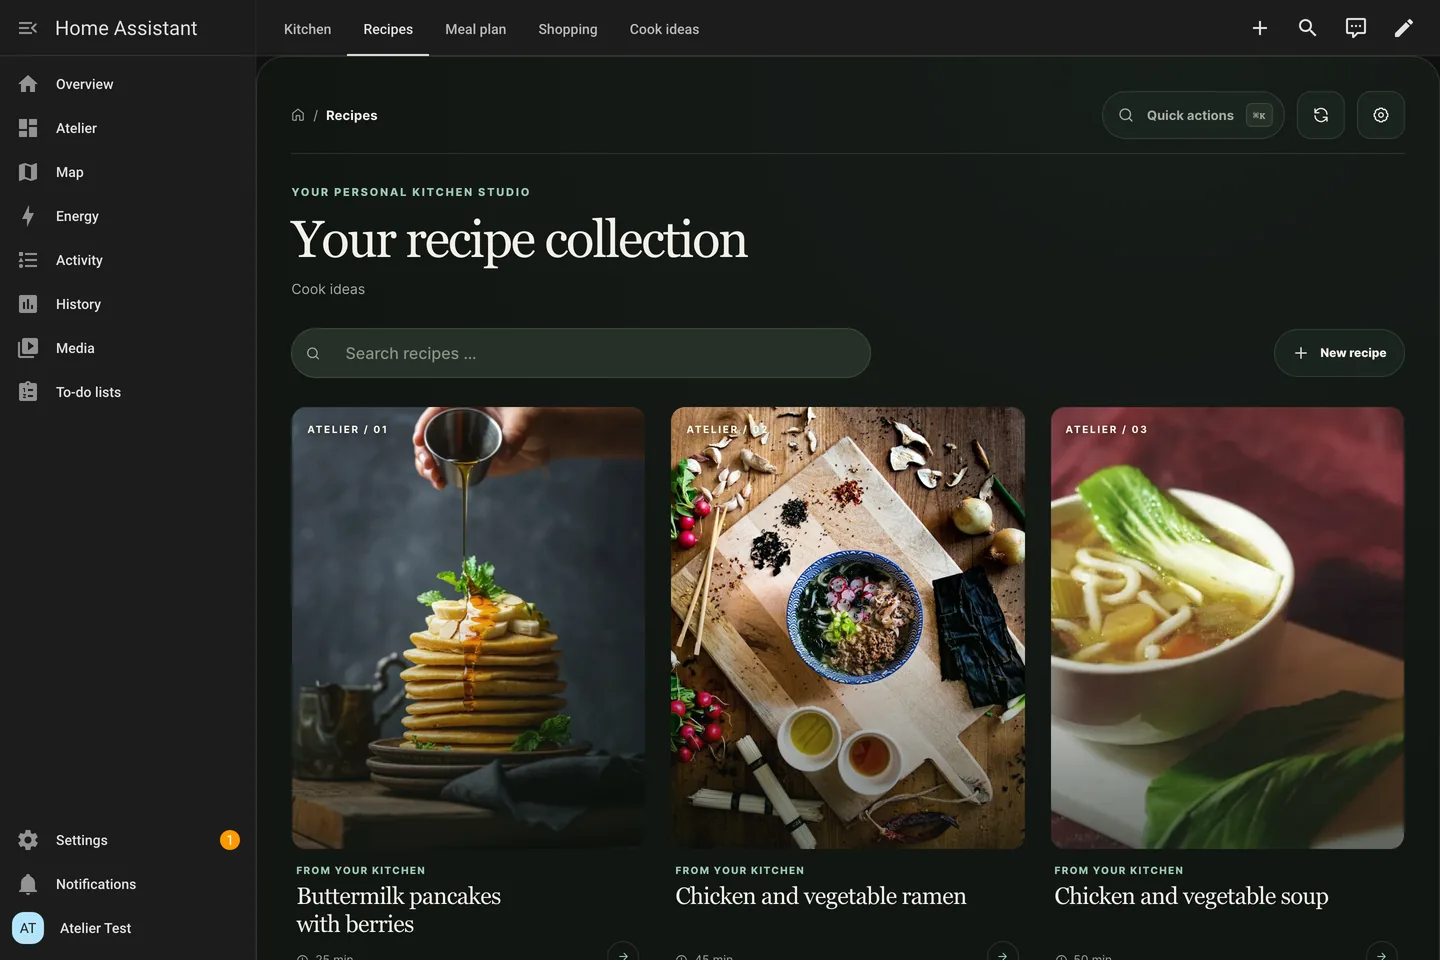
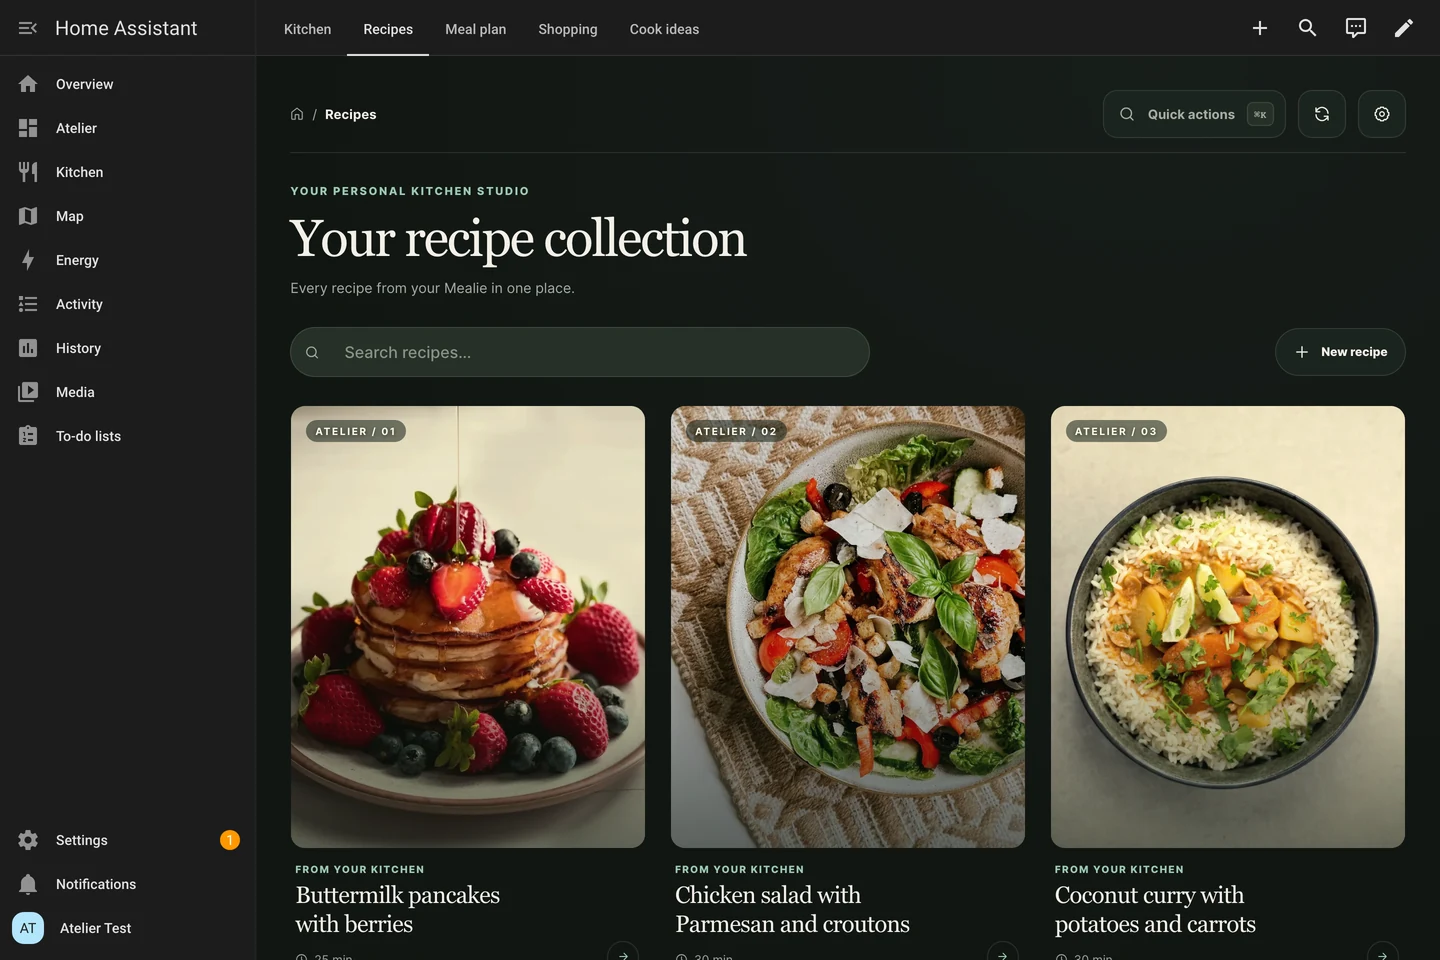
Recapture README and web screenshots from the live rig and add their capture scripts

diff --git a/scripts/capture-readme-shots.py b/scripts/capture-readme-shots.py
@@ -1,0 +1,179 @@
+"""Recapture the README screenshots in assets/screens/ from the live test rig.
+
+Usage: uv run --with playwright --with pillow python scripts/capture-readme-shots.py [bridge-dir]
+
+Needs the rig of the Bridge repo (tests/live/rig.sh up, seeded in English) with the current cards
+bundle mounted and registered (tests/live/ui_smoke.py). Signs in as the rig user, renders the
+`atelier-shots-light` and `atelier-shots-dark` dashboards at twice the pixel density and downscales
+to the published size. Fictional data only.
+"""
+
+from __future__ import annotations
+
+import sys
+from pathlib import Path
+
+from PIL import Image, ImageDraw
+
+ROOT = Path(__file__).resolve().parent.parent
+BRIDGE = Path(sys.argv[1]) if len(sys.argv) > 1 else ROOT.parent / "mealie-atelier-bridge"
+LIVE = BRIDGE / "tests" / "live"
+sys.path.insert(0, str(LIVE))
+sys.argv = [sys.argv[0], str(ROOT / "assets" / "screens"), "en"]
+
+import asyncio  # noqa: E402
+
+import capture_screens as cs  # noqa: E402
+from playwright.sync_api import sync_playwright  # noqa: E402
+
+OUT = ROOT / "assets" / "screens"
+DESKTOP = {"width": 1440, "height": 960}
+PHONE = {"width": 390, "height": 844}
+
+
+def save(png: Path, name: str, size: tuple[int, int]) -> Image.Image:
+    image = Image.open(png).convert("RGB").resize(size, Image.LANCZOS)
+    image.save(OUT / f"{name}.webp", "WEBP", quality=88, method=6)
+    print("ok  ", name, size)
+    return image
+
+
+def context(browser, theme: str, viewport: dict, phone: bool):
+    return browser.new_context(
+        viewport=viewport,
+        color_scheme=theme,
+        locale="en-US",
+        device_scale_factor=2,
+        is_mobile=phone,
+        has_touch=phone,
+        service_workers="block",
+    )
+
+
+def sign_in(page) -> None:
+    page.goto(f"{cs.BASE}/{cs.DASHBOARD}-light/dashboard")
+    page.wait_for_url("**/auth/authorize**", timeout=30_000)
+    page.locator("input[name='username']").fill("atelier")
+    page.locator("input[name='password']").fill("atelier-test-only")
+    page.keyboard.press("Enter")
+    page.wait_for_url(lambda url: "auth_callback" not in url and cs.DASHBOARD in url, timeout=30_000)
+
+
+def settle(page) -> None:
+    """Wait for card content and decoded photos; the network never idles (live cooking state)."""
+    page.locator("mealie-atelier-card .view-stage").first.wait_for(timeout=60_000)
+    page.wait_for_function("!document.getElementById('ha-launch-screen')", timeout=60_000)
+    page.wait_for_timeout(1500)
+    for img in page.locator("mealie-atelier-card img >> visible=true").all():
+        img.evaluate(
+            "img => Promise.race([img.decode().catch(() => null),"
+            " new Promise(done => setTimeout(done, 4000))])"
+        )
+    page.wait_for_timeout(900)
+
+
+def set_sidebar(page, mode: str) -> None:
+    page.evaluate(f"localStorage.setItem('dockedSidebar', JSON.stringify('{mode}'))")
+    page.reload()
+    page.wait_for_load_state("domcontentloaded")
+
+
+def view(page, theme: str, mode: str) -> None:
+    page.goto(f"{cs.BASE}/{cs.DASHBOARD}-{theme}/{mode}")
+    settle(page)
+
+
+def open_recipe(page, theme: str) -> None:
+    view(page, theme, "recipes")
+    page.locator(".recipe-tile >> visible=true").first.click()
+    page.locator("[data-action='cook-start'] >> visible=true").wait_for()
+    settle(page)
+
+
+def start_cooking(page) -> None:
+    page.locator("[data-action='cook-start'] >> visible=true").click()
+    replace = page.get_by_role("button", name="Replace session")
+    page.wait_for_timeout(800)
+    if replace.count():
+        # A cooking session of an earlier run is still shared in Home Assistant: take it over.
+        replace.first.click()
+    page.locator("[data-action='cook-next'] >> visible=true").wait_for()
+    settle(page)
+
+
+def shot(page, tmp: Path) -> Path:
+    page.screenshot(path=str(tmp))
+    return tmp
+
+
+def main() -> None:
+    asyncio.run(cs.prepare())
+    tmp = Path(sys.argv[0]).resolve().parent / ".shot.png"
+    desktop = [
+        ("dashboard-light", "light", "dashboard", None),
+        ("dashboard-dark", "dark", "dashboard", None),
+        ("recipes-dark", "dark", "recipes", None),
+        ("mealplan-light", "light", "mealplan", None),
+        ("shopping-dark", "dark", "shopping", None),
+        ("discover-light", "light", "discover", None),
+        ("recipe-light", "light", "recipes", "recipe"),
+        ("cook-dark", "dark", "recipes", "cook"),
+    ]
+    phones = [
+        ("light", "dashboard", None),
+        ("dark", "recipes", "recipe"),
+        ("light", "recipes", "cook"),
+        ("dark", "shopping", None),
+    ]
+    with sync_playwright() as play:
+        browser = play.chromium.launch(headless=True, args=["--lang=en-US"])
+        try:
+            sessions = {}
+            for name, theme, mode, step in desktop:
+                if theme not in sessions:
+                    ctx = context(browser, theme, DESKTOP, False)
+                    page = ctx.new_page()
+                    sign_in(page)
+                    set_sidebar(page, "docked")
+                    sessions[theme] = (ctx, page)
+                page = sessions[theme][1]
+                if step:
+                    open_recipe(page, theme)
+                    if step == "cook":
+                        start_cooking(page)
+                else:
+                    view(page, theme, mode)
+                save(shot(page, tmp), name, (1440, 960))
+            for ctx, _ in sessions.values():
+                ctx.close()
+            browser.close()
+            browser = play.chromium.launch(headless=True, args=["--lang=en-US"])
+            tiles = []
+            for theme, mode, step in phones:
+                ctx = context(browser, theme, PHONE, True)
+                page = ctx.new_page()
+                sign_in(page)
+                set_sidebar(page, "always_hidden")
+                if step:
+                    open_recipe(page, theme)
+                    if step == "cook":
+                        start_cooking(page)
+                else:
+                    view(page, theme, mode)
+                page.screenshot(path=str(tmp))
+                tiles.append(Image.open(tmp).convert("RGB").resize((390, 844), Image.LANCZOS))
+                ctx.close()
+        finally:
+            browser.close()
+    sheet = Image.new("RGBA", (4 * 390 + 3 * 36, 844), (0, 0, 0, 0))
+    for index, tile in enumerate(tiles):
+        mask = Image.new("L", tile.size, 0)
+        ImageDraw.Draw(mask).rounded_rectangle((0, 0, *tile.size), radius=24, fill=255)
+        sheet.paste(tile, (index * (390 + 36), 0), mask)
+    sheet.save(OUT / "phones.webp", "WEBP", quality=88, method=6)
+    print("ok   phones", sheet.size)
+    tmp.unlink(missing_ok=True)
+
+
+if __name__ == "__main__":
+    main()

diff --git a/scripts/capture-web-showcase.py b/scripts/capture-web-showcase.py
@@ -1,0 +1,41 @@
+"""Recapture web/assets/showcase-desktop.png from the standalone web app run against the test rig.
+
+Usage: uv run --with playwright --with pillow python scripts/capture-web-showcase.py <url> <user> <password>
+
+Start the web app first (cd web; MEALIE_URL=... MEALIE_API_TOKEN=... ATELIER_USERNAME=...
+ATELIER_PASSWORD=... node server.mjs) against the English rig. Dark theme, 1480 px wide, the top
+2016 px of the overview, rendered at twice the density and downscaled.
+"""
+
+from __future__ import annotations
+
+import sys
+from pathlib import Path
+
+from PIL import Image
+from playwright.sync_api import sync_playwright
+
+url, user, password = sys.argv[1:4]
+OUT = Path(__file__).resolve().parent.parent / "web" / "assets" / "showcase-desktop.png"
+TMP = OUT.with_suffix(".tmp.png")
+
+with sync_playwright() as play:
+    browser = play.chromium.launch(headless=True)
+    try:
+        context = browser.new_context(
+            viewport={"width": 1480, "height": 1000},
+            device_scale_factor=2,
+            color_scheme="dark",
+            locale="en-US",
+            http_credentials={"username": user, "password": password},
+        )
+        page = context.new_page()
+        page.goto(url)
+        page.locator(".view-stage").first.wait_for(timeout=60_000)
+        page.wait_for_timeout(5000)
+        page.screenshot(path=str(TMP), full_page=True, clip={"x": 0, "y": 0, "width": 1480, "height": 2016})
+    finally:
+        browser.close()
+Image.open(TMP).convert("RGB").resize((1480, 2016), Image.LANCZOS).save(OUT, optimize=True)
+TMP.unlink()
+print("ok", OUT)
